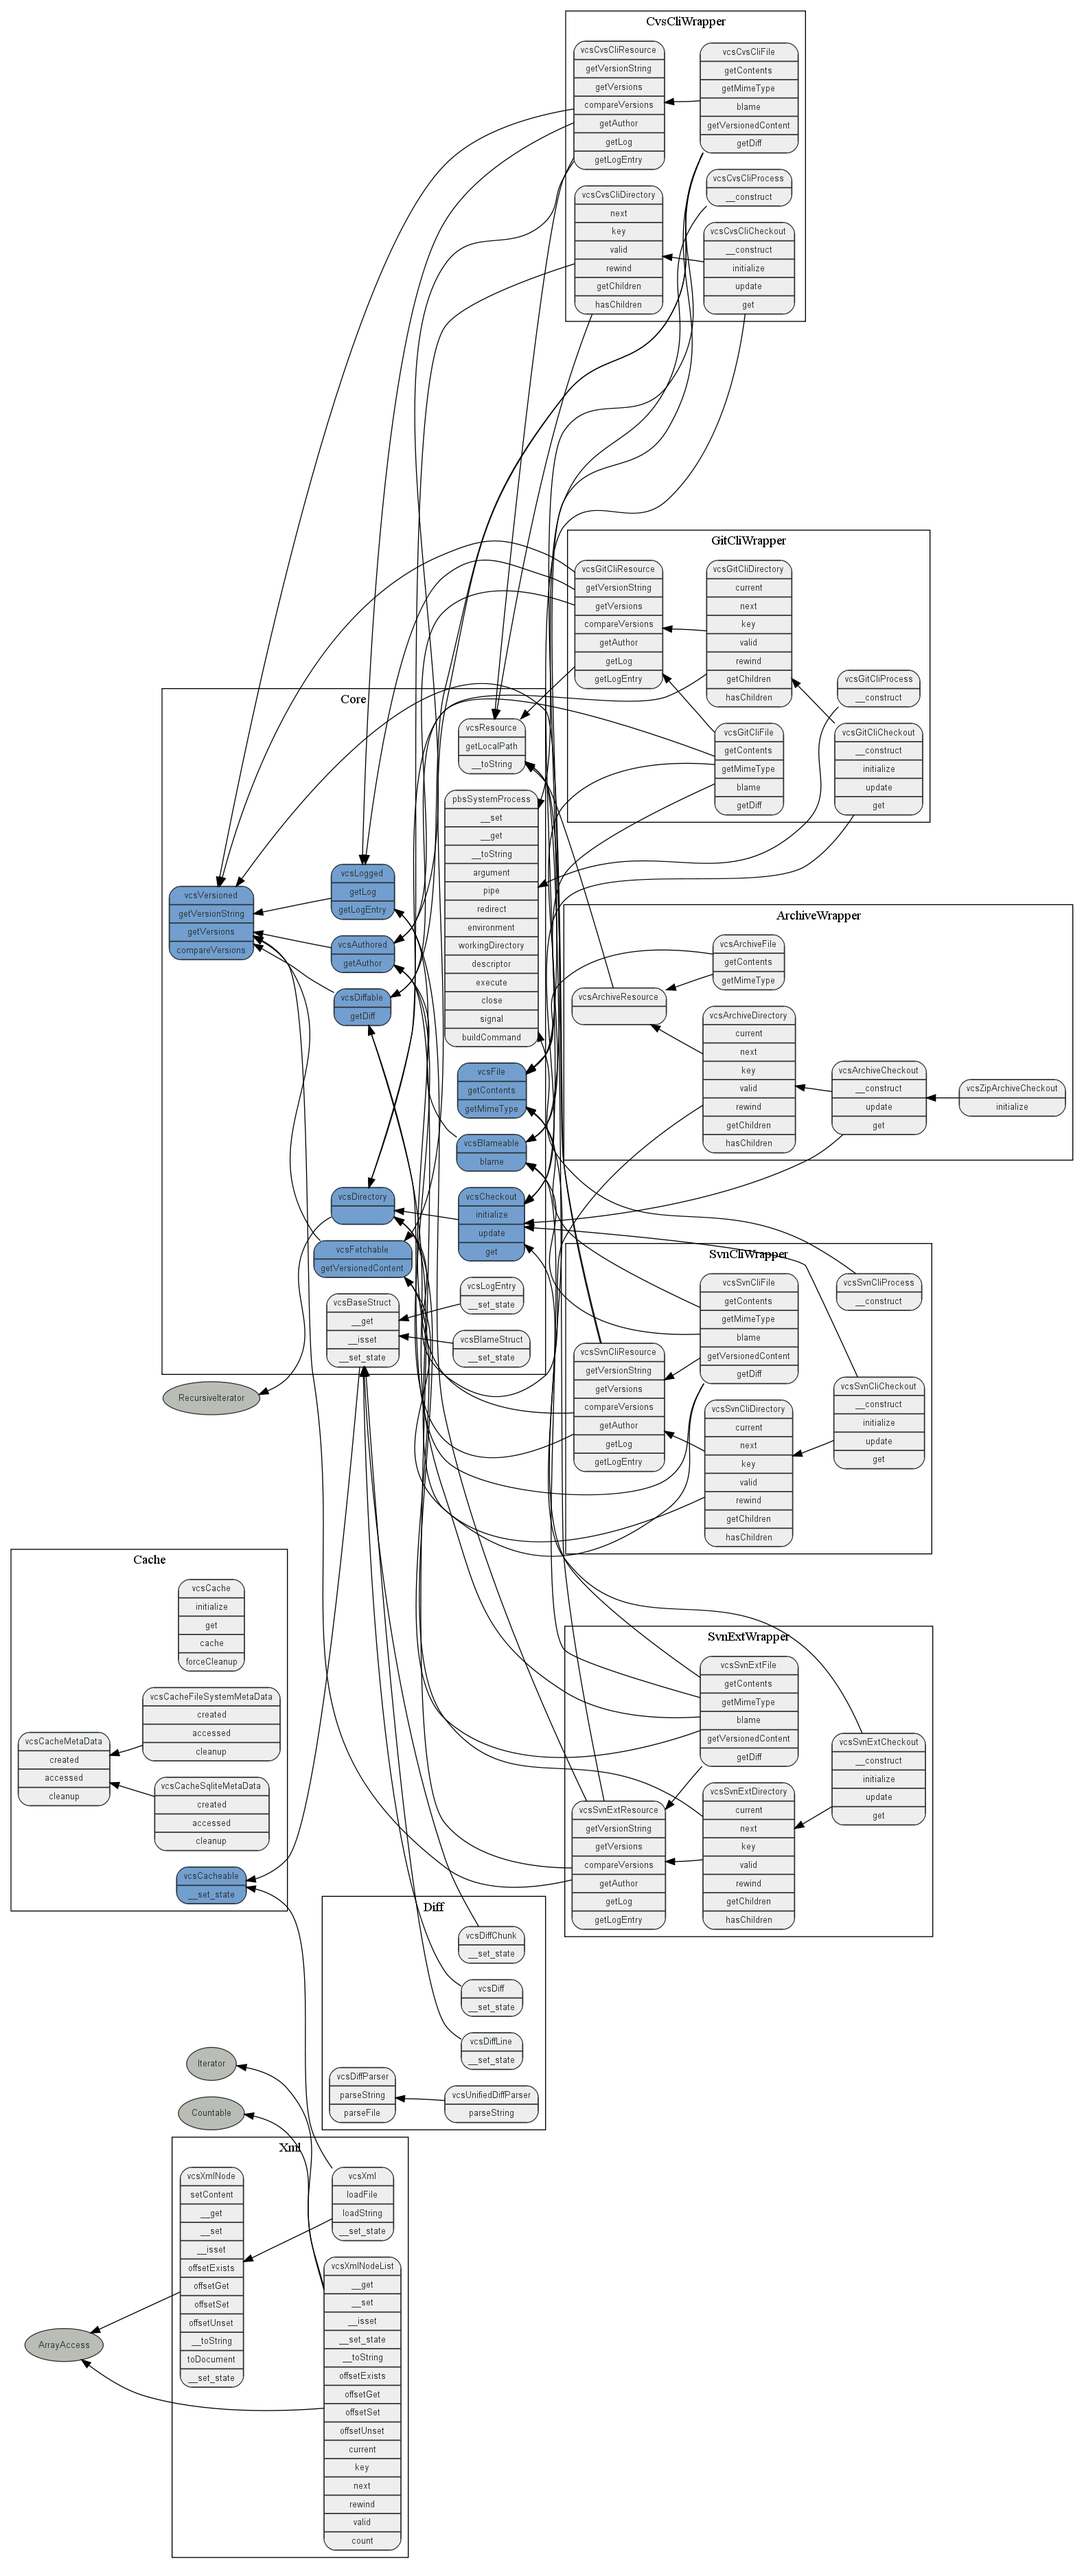
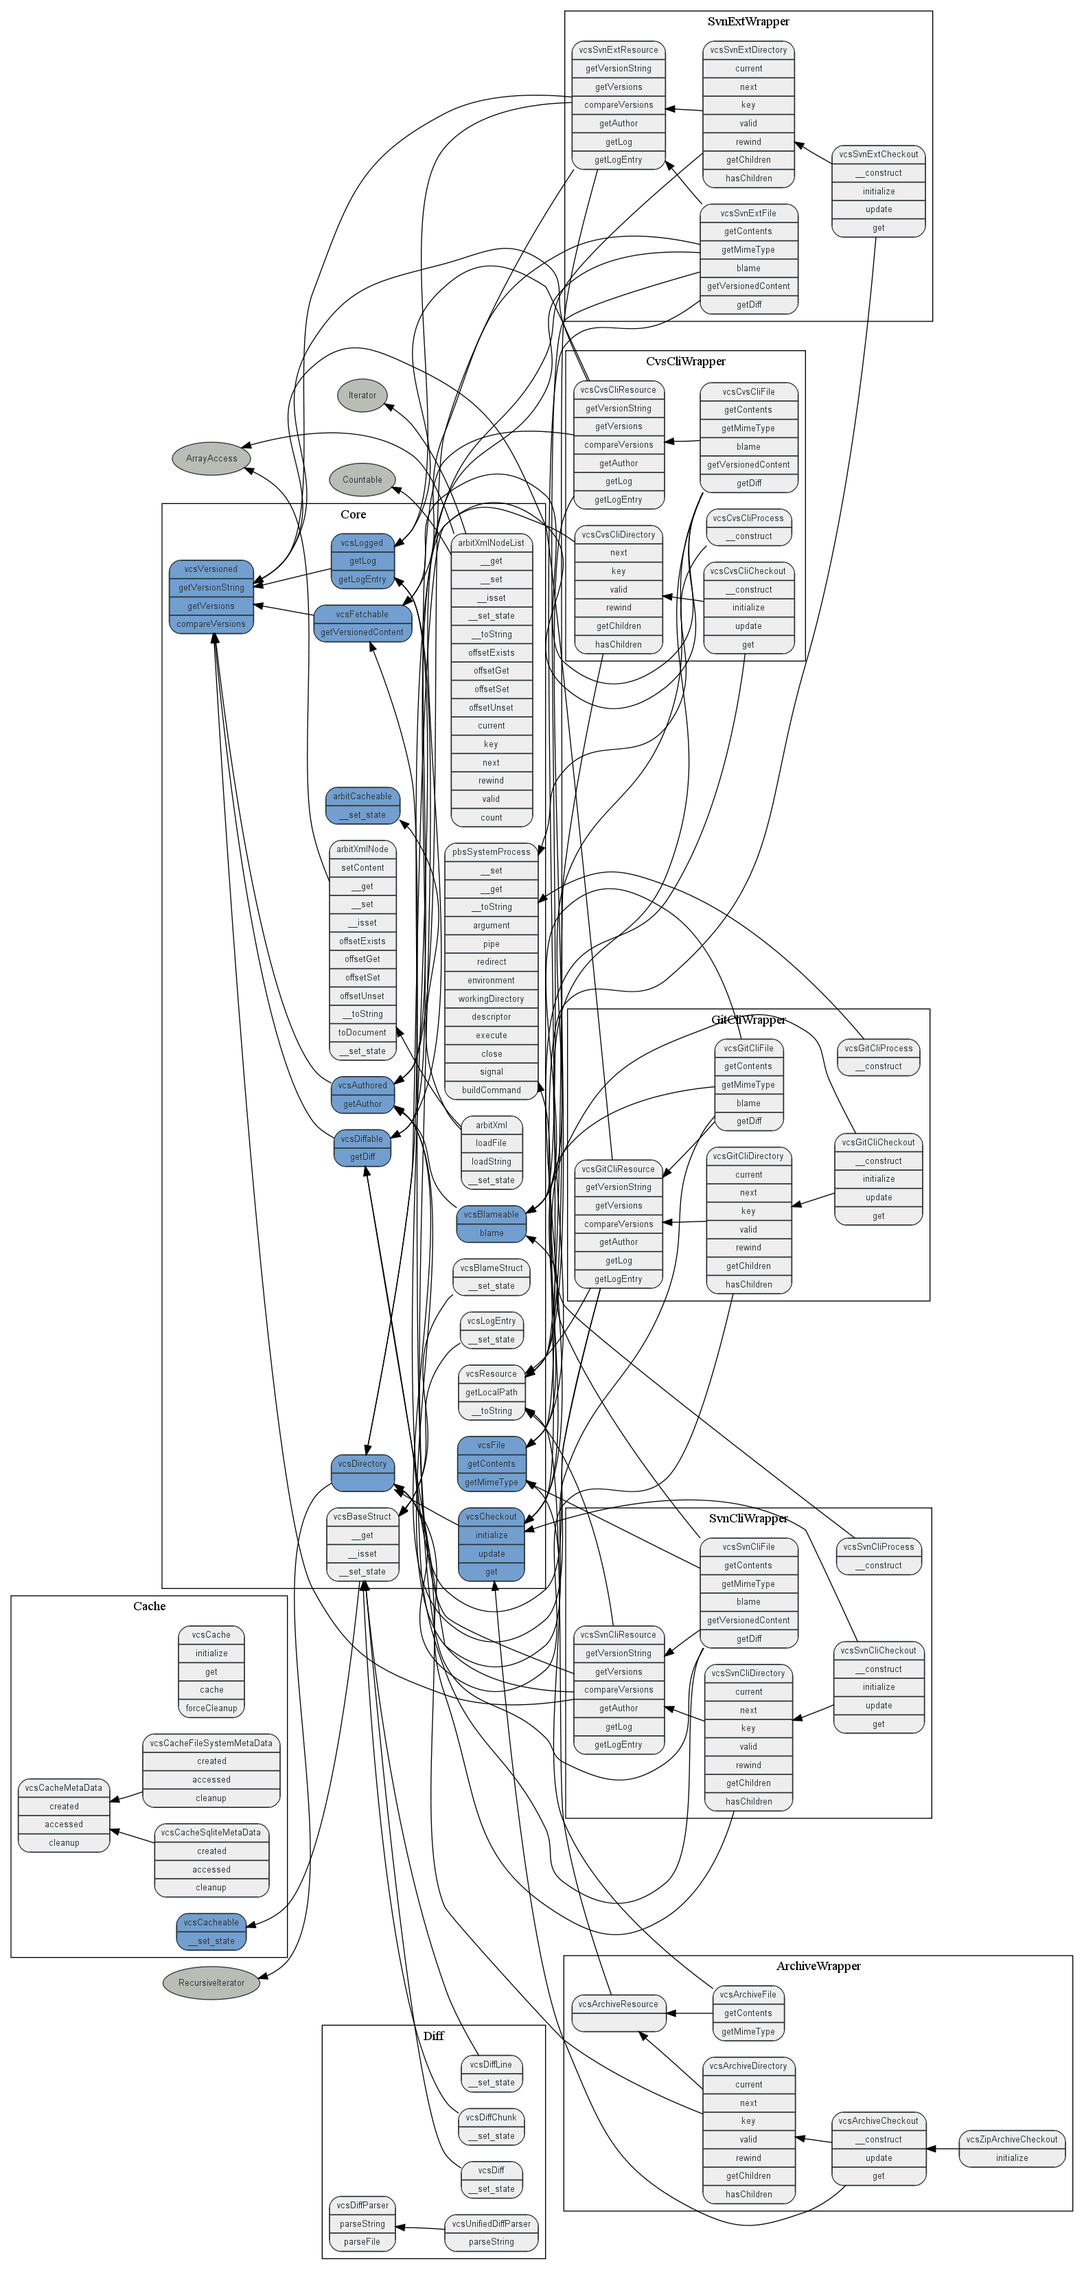
# Got test suite running again using extracted XML handling and some name # changes

diff --git a/src/classes/autoload.php b/src/classes/autoload.php
@@ -29,7 +29,7 @@
  * # scripts/gen_autoload_files.php
  */
 return array(
-    'vcsCacheable'                                     => 'interfaces/cacheable.php',
+    'arbitCacheable'                                     => 'interfaces/cacheable.php',
     'vcsBaseStruct'                                    => 'struct.php',
     'vcsBlameStruct'                                   => 'blame.php',
     'vcsCache'                                         => 'cache.php',
@@ -44,7 +44,7 @@ return array(
     'vcsException'                                     => 'exceptions.php',
     'vcsNoSuchFileException'                           => 'exceptions.php',
     'vcsRuntimeException'                              => 'exceptions.php',
-    'vcsXmlParserException'                            => 'exceptions.php',
+    'arbitXmlParserException'                            => 'exceptions.php',
     'vcsCacheNotInitializedException'                  => 'exceptions.php',
     'vcsNotCacheableException'                         => 'exceptions.php',
     'vcsCheckoutFailedException'                       => 'exceptions.php',
@@ -56,9 +56,15 @@ return array(
     'pbsSystemProcessNonZeroExitCodeException'         => 'external/exceptions/system_process/nonZeroExitCode.php',
     'pbsSystemProcessNotRunningException'              => 'external/exceptions/system_process/notRunning.php',
     'pbsSystemProcessRecursivePipeException'           => 'external/exceptions/system_process/recursivePipe.php',
-    'vcsXmlNode'                                       => 'external/xml/node.php',
-    'vcsXml'                                           => 'external/xml/document.php',
-    'vcsXmlNodeList'                                   => 'external/xml/node_list.php',
+    'arbitXmlNode'                                     => 'external/xml/node.php',
+    'arbitCacheable'                                   => 'external/xml/cacheable.php',
+    'arbitXml'                                         => 'external/xml/document.php',
+    'arbitException'                                   => 'external/xml/exceptions.php',
+    'arbitNoSuchFileException'                         => 'external/xml/exceptions.php',
+    'arbitXmlParserException'                          => 'external/xml/exceptions.php',
+    'arbitAccessException'                             => 'external/xml/exceptions.php',
+    'arbitValueException'                              => 'external/xml/exceptions.php',
+    'arbitXmlNodeList'                                 => 'external/xml/node_list.php',
     'vcsLogEntry'                                      => 'log_entry.php',
     'vcsResource'                                      => 'resource.php',
     'vcsArchiveResource'                               => 'wrapper/archive/resource.php',

diff --git a/src/classes/exceptions.php b/src/classes/exceptions.php
@@ -67,47 +67,6 @@ class vcsRuntimeException extends vcsException
 }
 
 /**
- * Exception thrown, when a requested file could not be found.
- */
-class vcsXmlParserException extends vcsException
-{
-    /**
-     * Human readable error names for libXML error type constants.
-     *
-     * @var array
-     */
-    protected $levels = array(
-        LIBXML_ERR_WARNING => 'Warning',
-        LIBXML_ERR_ERROR   => 'Error',
-        LIBXML_ERR_FATAL   => 'Fatal error',
-    );
-
-    /**
-     * Construct exception
-     *
-     * @param string $file
-     * @param array $error
-     * @return void
-     */
-    public function __construct( $file, array $errors )
-    {
-        foreach ( $errors as $nr => $error )
-        {
-            $errors[$nr] = sprintf( "%s: (%d) %s in %s +%d (%d).",
-                $this->levels[$error->level],
-                $error->code,
-                $error->message,
-                $error->file,
-                $error->line,
-                $error->column
-            );
-        }
-
-        parent::__construct( "The XML file '$file' could not be parsed:\n - " . implode( "\n - ", $errors ) . "\n" );
-    }
-}
-
-/**
  * Exception thrown, when the cache is used, but not initialized.
  */
 class vcsCacheNotInitializedException extends vcsException
@@ -137,7 +96,7 @@ class vcsNotCacheableException extends vcsException
      */
     public function __construct( $value )
     {
-        parent::__construct( 'Value of type ' . gettype( $value ) . ' cannot be cached. Only arrays, scalar values and objects implementing vcsCacheable are allowed.' );
+        parent::__construct( 'Value of type ' . gettype( $value ) . ' cannot be cached. Only arrays, scalar values and objects implementing arbitCacheable are allowed.' );
     }
 }
 
@@ -262,3 +221,4 @@ class vcsFileNotFoundException extends vcsException
         parent::__construct( "Could not locate '$file' inside the repository." );
     }
 }
+

diff --git a/src/classes/wrapper/svn-cli/resource.php b/src/classes/wrapper/svn-cli/resource.php
@@ -41,7 +41,7 @@ abstract class vcsSvnCliResource extends vcsResource implements vcsVersioned, vc
      * Get the base information, like version, author, etc for the current
      * resource in the current version.
      *
-     * @return vcsXml
+     * @return arbitXml
      */
     protected function getResourceInfo()
     {
@@ -61,7 +61,7 @@ abstract class vcsSvnCliResource extends vcsResource implements vcsVersioned, vc
             // Execute info command
             $return = $process->argument( 'info' )->argument( $this->root . $this->path )->execute();
 
-            $info = vcsXml::loadString( $process->stdoutOutput );
+            $info = arbitXml::loadString( $process->stdoutOutput );
             vcsCache::cache( $this->path, $this->currentVersion = (string) $info->entry[0]->commit[0]['revision'], 'info', $info );
         }
 
@@ -73,7 +73,7 @@ abstract class vcsSvnCliResource extends vcsResource implements vcsVersioned, vc
      *
      * Get the full log for the current resource up tu the current revision
      *
-     * @return vcsXml
+     * @return arbitXml
      */
     protected function getResourceLog()
     {
@@ -93,7 +93,7 @@ abstract class vcsSvnCliResource extends vcsResource implements vcsVersioned, vc
             $return = $process->argument( 'log' )->argument( $this->root . $this->path )->execute();
 
             // Transform XML into object array
-            $xmlLog = vcsXml::loadString( $process->stdoutOutput );
+            $xmlLog = arbitXml::loadString( $process->stdoutOutput );
             $log    = array();
             foreach ( $xmlLog->logentry as $entry )
             {

diff --git a/src/classes/cache.php b/src/classes/cache.php
@@ -178,7 +178,7 @@ class vcsCache
      *
      * Cache the meta data, identified by the $key, for the given resource in
      * the given version. You may cache all scalar values, arrays and objects
-     * which are implementing the interface vcsCacheable.
+     * which are implementing the interface arbitCacheable.
      *
      * @param string $resource 
      * @param string $version 
@@ -195,7 +195,7 @@ class vcsCache
 
         if ( !is_scalar( $value ) &&
              !is_array( $value ) &&
-             ( !$value instanceof vcsCacheable ) )
+             ( !$value instanceof arbitCacheable ) )
         {
             throw new vcsNotCacheableException( $value );
         }

diff --git a/src/classes/wrapper/git-cli/resource.php b/src/classes/wrapper/git-cli/resource.php
@@ -41,7 +41,7 @@ abstract class vcsGitCliResource extends vcsResource implements vcsVersioned, vc
      * Get the base information, like version, author, etc for the current
      * resource in the current version.
      *
-     * @return vcsXml
+     * @return arbitXml
      */
     protected function getResourceInfo()
     {
@@ -71,7 +71,7 @@ abstract class vcsGitCliResource extends vcsResource implements vcsVersioned, vc
      *
      * Get the full log for the current resource up tu the current revision
      *
-     * @return vcsXml
+     * @return arbitXml
      */
     protected function getResourceLog()
     {

diff --git a/src/classes/wrapper/svn-ext/resource.php b/src/classes/wrapper/svn-ext/resource.php
@@ -41,7 +41,7 @@ abstract class vcsSvnExtResource extends vcsResource implements vcsVersioned, vc
      * Get the base information, like version, author, etc for the current
      * resource in the current version.
      *
-     * @return vcsXml
+     * @return arbitXml
      */
     protected function getResourceInfo()
     {
@@ -70,7 +70,7 @@ abstract class vcsSvnExtResource extends vcsResource implements vcsVersioned, vc
      *
      * Get the full log for the current resource up tu the current revision
      *
-     * @return vcsXml
+     * @return arbitXml
      */
     protected function getResourceLog()
     {

diff --git a/src/classes/wrapper/svn-cli/file.php b/src/classes/wrapper/svn-cli/file.php
@@ -72,7 +72,7 @@ class vcsSvnCliFile extends vcsSvnCliResource implements vcsFile, vcsBlameable, 
 
             // Execute command
             $return = $process->argument( 'blame' )->argument( $this->root . $this->path )->execute();
-            $xml = vcsXml::loadString( $process->stdoutOutput );
+            $xml = arbitXml::loadString( $process->stdoutOutput );
 
             // Check if blame information si available. Is absent fro binary
             // files.

diff --git a/src/classes/interfaces/cacheable.php b/src/classes/interfaces/cacheable.php
@@ -27,13 +27,13 @@
  * Interface indicating that an object can be cached. To be cacheable the
  * implementing class needs the to implement __set_state method.
  */
-interface vcsCacheable
+interface arbitCacheable
 {
     /**
      * Recreate struct exported by var_export()
      * 
      * @param array $properties 
-     * @return vcsCacheable
+     * @return arbitCacheable
      */
     public static function __set_state( array $properties );
 }

diff --git a/tests/archive_suite.php b/tests/archive_suite.php
@@ -11,7 +11,7 @@
  */
 if ( !defined( 'VCS_TEST' ) )
 {
-    $files = include ( $base = dirname(  __FILE__ ) . '/../src/' ) . 'classes/autoload.php';
+    $files = include ( $base = dirname(  __FILE__ ) . '/../src/classes/' ) . 'autoload.php';
     foreach ( $files as $class => $file )
     {
         require_once $base . $file;

diff --git a/tests/cache_suite.php b/tests/cache_suite.php
@@ -11,7 +11,7 @@
  */
 if ( !defined( 'VCS_TEST' ) )
 {
-    $files = include ( $base = dirname(  __FILE__ ) . '/../src/' ) . 'classes/autoload.php';
+    $files = include ( $base = dirname(  __FILE__ ) . '/../src/classes/' ) . 'autoload.php';
     foreach ( $files as $class => $file )
     {
         require_once $base . $file;

diff --git a/tests/cvs_cli_suite.php b/tests/cvs_cli_suite.php
@@ -11,7 +11,7 @@
  */
 if ( !defined( 'VCS_TEST' ) )
 {
-    $files = include ( $base = dirname(  __FILE__ ) . '/../src/' ) . 'classes/autoload.php';
+    $files = include ( $base = dirname(  __FILE__ ) . '/../src/classes/' ) . 'autoload.php';
     foreach ( $files as $class => $file )
     {
         require_once $base . $file;

diff --git a/tests/diff_suite.php b/tests/diff_suite.php
@@ -11,7 +11,7 @@
  */
 if ( !defined( 'VCS_TEST' ) )
 {
-    $files = include ( $base = dirname(  __FILE__ ) . '/../src/' ) . 'classes/autoload.php';
+    $files = include ( $base = dirname(  __FILE__ ) . '/../src/classes/' ) . 'autoload.php';
     foreach ( $files as $class => $file )
     {
         require_once $base . $file;
